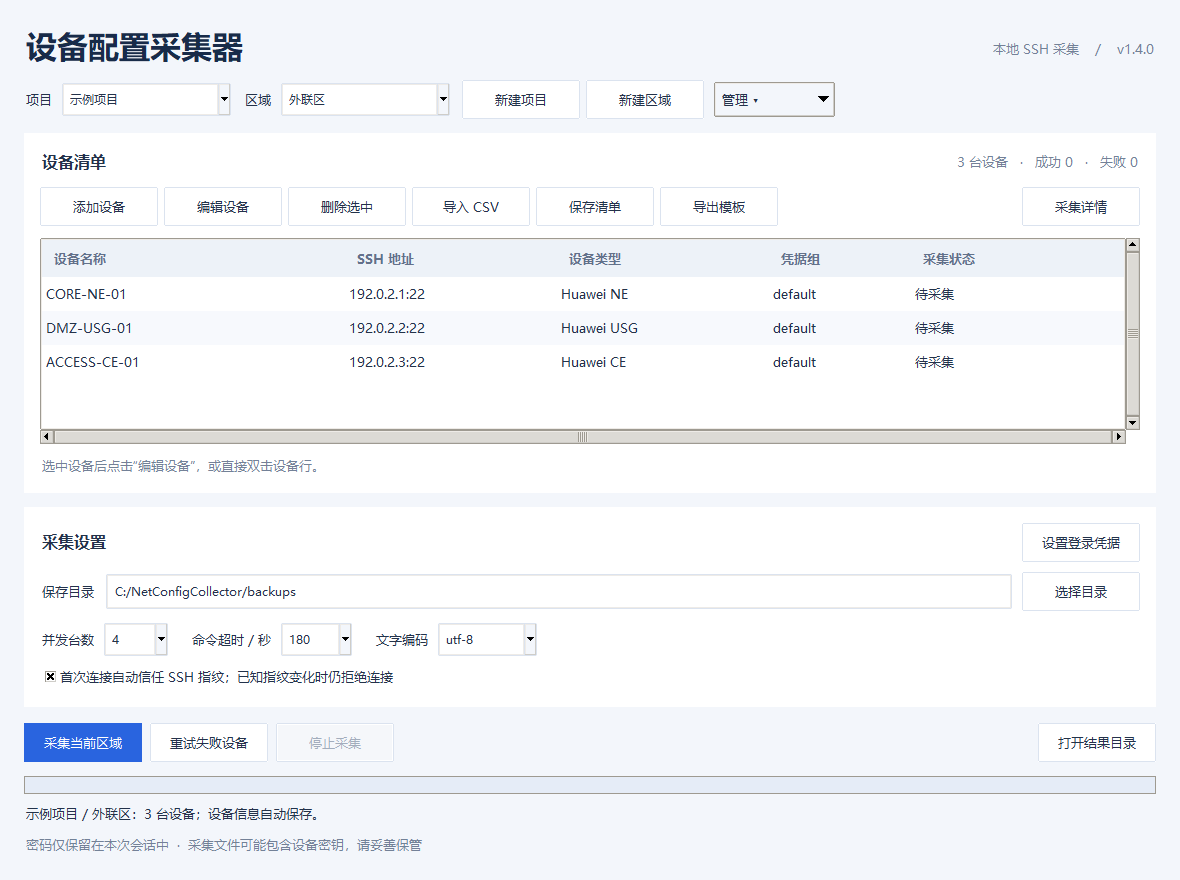
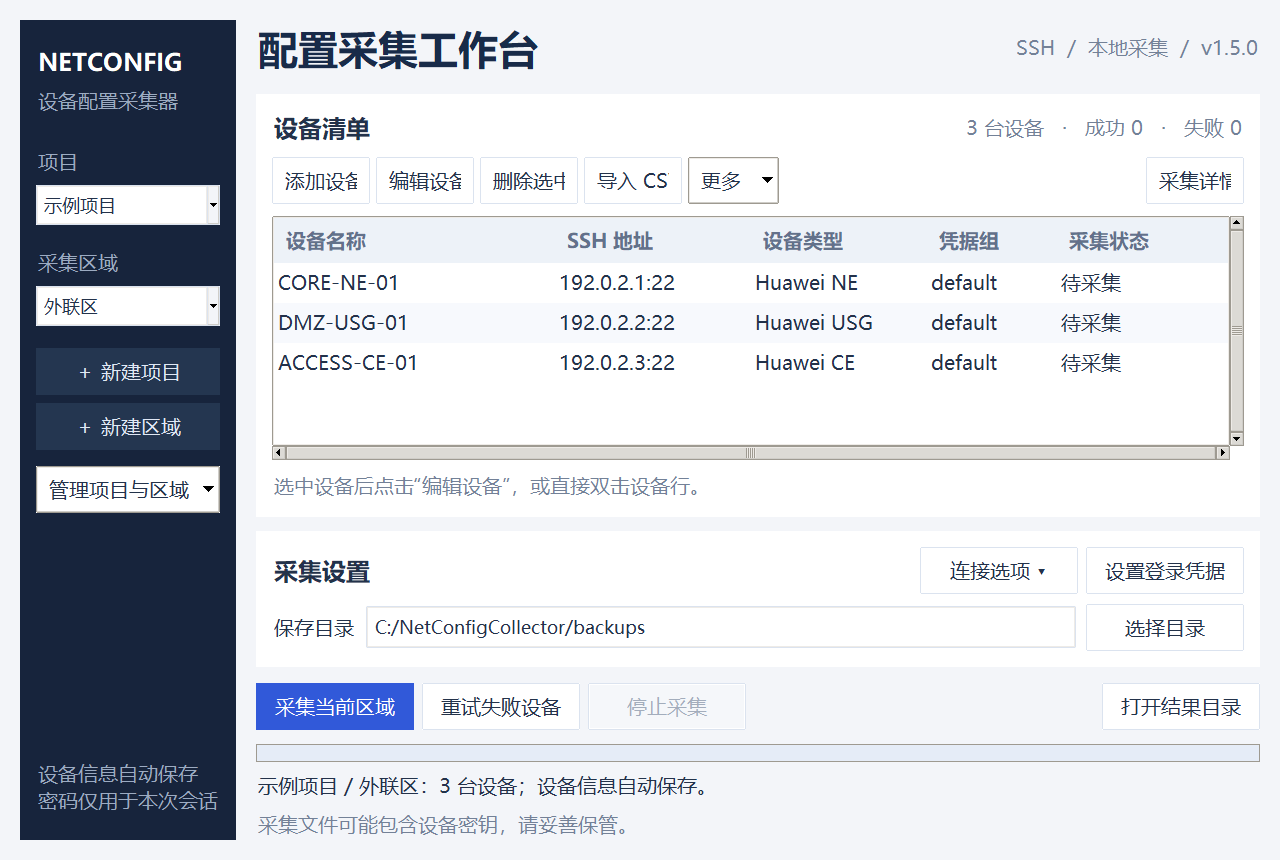
Redesign collector workspace with project sidebar and compact settings

diff --git a/source/app.py b/source/app.py
@@ -24,27 +24,27 @@ class App:
         self.library = Inventory(library_path if library_path is not None else STATE / 'inventory.json')
         self.project_credentials = {}
         self.active_project = None
-        root.title("设备配置采集器 1.4.0")
-        root.geometry("1180x880")
+        root.title("设备配置采集器 1.5.0")
+        root.geometry("1280x860")
         root.minsize(1020, 760)
-        root.configure(background="#f3f6fb")
+        root.configure(background="#f3f5f9")
         style = ttk.Style()
         style.theme_use("clam")
-        style.configure(".", font=("Microsoft YaHei UI", 10), background="#f3f6fb", foreground="#23324a")
-        style.configure("TFrame", background="#f3f6fb")
+        style.configure(".", font=("Microsoft YaHei UI", 10), background="#f3f5f9", foreground="#23324a")
+        style.configure("TFrame", background="#f3f5f9")
         style.configure("Card.TFrame", background="#ffffff")
-        style.configure("TLabel", background="#f3f6fb")
+        style.configure("TLabel", background="#f3f5f9")
         style.configure("Card.TLabel", background="#ffffff")
         style.configure("Muted.TLabel", foreground="#738197")
         style.configure("CardMuted.TLabel", background="#ffffff", foreground="#738197")
-        style.configure("Title.TLabel", font=("Microsoft YaHei UI", 23, "bold"), foreground="#182b49")
+        style.configure("Title.TLabel", font=("Microsoft YaHei UI", 20, "bold"), foreground="#182b49")
         style.configure("Section.TLabel", background="#ffffff", font=("Microsoft YaHei UI", 12, "bold"))
         style.configure("TButton", background="#ffffff", bordercolor="#dbe3ef", lightcolor="#ffffff",
-                        darkcolor="#ffffff", borderwidth=1, padding=(12, 7))
+                        darkcolor="#ffffff", borderwidth=1, padding=(10, 7))
         style.map("TButton", background=[("active", "#eef4ff"), ("disabled", "#f5f7fa")],
                   foreground=[("disabled", "#a3adbc")])
-        style.configure("Primary.TButton", background="#2964df", foreground="#ffffff",
-                        bordercolor="#2964df", lightcolor="#2964df", darkcolor="#2964df")
+        style.configure("Primary.TButton", background="#3159d9", foreground="#ffffff",
+                        bordercolor="#3159d9", lightcolor="#3159d9", darkcolor="#3159d9")
         style.map("Primary.TButton", background=[("disabled", "#b7c9ed"), ("active", "#1e50bd")],
                   foreground=[("disabled", "#edf2fc"), ("!disabled", "#ffffff")])
         style.configure("TEntry", fieldbackground="#ffffff", bordercolor="#dbe3ef", padding=7)
@@ -54,13 +54,13 @@ class App:
                   selectbackground=[("readonly", "#ffffff")], selectforeground=[("readonly", "#23324a")])
         style.configure("TCheckbutton", background="#ffffff", padding=4)
         style.map("TCheckbutton", background=[("active", "#ffffff")])
-        style.configure("Treeview", background="#ffffff", fieldbackground="#ffffff", rowheight=34,
+        style.configure("Treeview", background="#ffffff", fieldbackground="#ffffff", rowheight=40,
                         borderwidth=0, font=("Microsoft YaHei UI", 10))
         style.configure("Treeview.Heading", background="#edf2f8", foreground="#63718a",
                         font=("Microsoft YaHei UI", 10, "bold"), padding=(10, 7), relief="flat")
         style.map("Treeview", background=[("selected", "#dce9ff")], foreground=[("selected", "#173d80")])
-        style.configure("Horizontal.TProgressbar", background="#2964df", troughcolor="#e5ecf7",
-                        borderwidth=0, lightcolor="#2964df", darkcolor="#2964df")
+        style.configure("Horizontal.TProgressbar", background="#3159d9", troughcolor="#e5ecf7",
+                        borderwidth=0, lightcolor="#3159d9", darkcolor="#3159d9")
         self.devices = []
         self.credentials = {}
         self.events = queue.Queue()
@@ -77,40 +77,54 @@ class App:
         self.status = tk.StringVar(value="添加或导入设备，设置登录凭据后即可开始。")
         self.counts = tk.StringVar(value="0 台设备   ·   成功 0   ·   失败 0")
         self.selection_text = tk.StringVar(value="选中设备后点击“编辑设备”，或直接双击设备行。")
-        main = ttk.Frame(root, padding=24)
+        style.configure("Nav.TFrame", background="#17243c")
+        style.configure("Nav.TLabel", background="#17243c", foreground="#ffffff",
+                        font=("Microsoft YaHei UI", 12, "bold"))
+        style.configure("NavMuted.TLabel", background="#17243c", foreground="#9cabc2")
+        style.configure("Nav.TButton", background="#243650", foreground="#e0e8f5",
+                        bordercolor="#243650", lightcolor="#243650", darkcolor="#243650")
+        style.map("Nav.TButton", background=[("active", "#334b70"), ("disabled", "#243650")],
+                  foreground=[("disabled", "#738197")])
+        style.configure("TMenubutton", padding=(10, 7), background="#ffffff", borderwidth=1)
+        main = ttk.Frame(root, padding=20)
         main.pack(fill="both", expand=True)
-        main.columnconfigure(0, weight=1)
-        main.rowconfigure(2, weight=1)
+        main.columnconfigure(1, weight=1)
+        main.rowconfigure(1, weight=1)
         header = ttk.Frame(main)
-        header.grid(row=0, column=0, sticky="ew", pady=(0, 12))
-        ttk.Label(header, text="设备配置采集器", style="Title.TLabel").pack(side="left")
-        ttk.Label(header, text="本地 SSH 采集    /    v1.4.0", style="Muted.TLabel").pack(side="right", anchor="s", pady=8)
-        scope = ttk.Frame(main)
-        scope.grid(row=1, column=0, sticky="ew", pady=(0, 14))
+        header.grid(row=0, column=1, sticky="ew", padx=(20, 0), pady=(0, 18))
+        ttk.Label(header, text="配置采集工作台", style="Title.TLabel").pack(side="left")
+        ttk.Label(header, text="SSH  /  本地采集  /  v1.5.0", style="Muted.TLabel").pack(side="right")
+        scope = ttk.Frame(main, style="Nav.TFrame", padding=(16, 24))
+        scope.grid(row=0, column=0, rowspan=8, sticky="ns")
+        ttk.Label(scope, text="NETCONFIG", style="Nav.TLabel").pack(anchor="w")
+        ttk.Label(scope, text="设备配置采集器", style="NavMuted.TLabel").pack(anchor="w", pady=(6, 30))
         self.project = tk.StringVar()
         self.area = tk.StringVar()
-        for text, variable, attribute in (("项目", self.project, "project_box"), ("区域", self.area, "area_box")):
-            ttk.Label(scope, text=text).pack(side="left", padx=(0, 8))
-            box = ttk.Combobox(scope, textvariable=variable, width=20, state="readonly")
-            box.pack(side="left", padx=(0, 12))
+        for text, variable, attribute in (("项目", self.project, "project_box"), ("采集区域", self.area, "area_box")):
+            ttk.Label(scope, text=text, style="NavMuted.TLabel").pack(anchor="w", pady=(0, 8))
+            box = ttk.Combobox(scope, textvariable=variable, width=14, state="readonly")
+            box.pack(fill="x", pady=(0, 22))
             box.bind("<<ComboboxSelected>>", self.switch_area)
             setattr(self, attribute, box)
             self.controls.append(box)
-        for text, kind in (("新建项目", "project"), ("新建区域", "area")):
-            button = ttk.Button(scope, text=text, command=lambda kind=kind: self.manage_inventory("create", kind))
-            button.pack(side="left", padx=(0, 6))
+        for text, kind in (("＋ 新建项目", "project"), ("＋ 新建区域", "area")):
+            button = ttk.Button(scope, text=text, style="Nav.TButton",
+                                command=lambda kind=kind: self.manage_inventory("create", kind))
+            button.pack(fill="x", pady=(0, 8))
             self.controls.append(button)
-        manage = ttk.Menubutton(scope, text="管理 ▾")
+        manage = ttk.Menubutton(scope, text="管理项目与区域")
         menu = tk.Menu(manage, tearoff=False)
         for label, action, kind in (("重命名项目", "rename", "project"), ("重命名区域", "rename", "area"),
                                     ("删除项目", "delete", "project"), ("删除区域", "delete", "area")):
             menu.add_command(label=label, command=lambda action=action, kind=kind: self.manage_inventory(action, kind))
         manage.configure(menu=menu)
-        manage.pack(side="left", padx=(4, 0))
+        manage.pack(fill="x", pady=(8, 0))
         self.controls.append(manage)
+        ttk.Label(scope, text="设备信息自动保存\n密码仅用于本次会话", style="NavMuted.TLabel",
+                  justify="left").pack(side="bottom", anchor="w", pady=(24, 0))
 
         inventory = ttk.Frame(main, style="Card.TFrame", padding=16)
-        inventory.grid(row=2, column=0, sticky="nsew")
+        inventory.grid(row=1, column=1, sticky="nsew", padx=(20, 0))
         inventory.columnconfigure(0, weight=1)
         inventory.rowconfigure(2, weight=1)
         heading = ttk.Frame(inventory, style="Card.TFrame")
@@ -122,25 +136,32 @@ class App:
         for label, command in [
             ("添加设备", self.add_device), ("编辑设备", self.edit_selected),
             ("删除选中", self.remove), ("导入 CSV", self.import_csv),
-            ("保存清单", self.export_inventory), ("导出模板", self.template),
+            
         ]:
-            button = ttk.Button(bar, text=label, command=command)
+            button = ttk.Button(bar, text=label, width=6, command=command)
             button.pack(side="left", padx=(0, 6))
             self.controls.append(button)
-        ttk.Button(bar, text="采集详情", command=self.show_detail).pack(side="right")
+        more = ttk.Menubutton(bar, text="更多", width=4)
+        exports = tk.Menu(more, tearoff=False)
+        exports.add_command(label="导出当前清单 CSV", command=self.export_inventory)
+        exports.add_command(label="导出设备模板", command=self.template)
+        more.configure(menu=exports)
+        more.pack(side="left")
+        self.controls.append(more)
+        ttk.Button(bar, text="采集详情", width=6, command=self.show_detail).pack(side="right")
         table = ttk.Frame(inventory, style="Card.TFrame")
         table.grid(row=2, column=0, sticky="nsew")
         columns = ("name", "host", "platform", "credential", "status")
         self.tree = ttk.Treeview(table, columns=columns, show="headings", selectmode="extended", height=6)
         for col, title, width in zip(columns, ("设备名称", "SSH 地址", "设备类型", "凭据组", "采集状态"),
-                                     (270, 180, 180, 110, 180)):
+                                     (240, 155, 135, 90, 130)):
             self.tree.heading(col, text=title, anchor="w")
             self.tree.column(col, width=width, minwidth=90, anchor="w")
         self.tree.tag_configure("even", background="#ffffff")
         self.tree.tag_configure("odd", background="#f7f9fd")
         self.tree.tag_configure("success", foreground="#15805a")
         self.tree.tag_configure("failed", foreground="#c34545")
-        self.tree.tag_configure("working", foreground="#2964df")
+        self.tree.tag_configure("working", foreground="#3159d9")
         scrollbar = ttk.Scrollbar(table, orient="vertical", command=self.tree.yview)
         horizontal = ttk.Scrollbar(table, orient="horizontal", command=self.tree.xview)
         self.tree.configure(yscrollcommand=scrollbar.set, xscrollcommand=horizontal.set)
@@ -152,10 +173,10 @@ class App:
         self.tree.bind("<Double-1>", self.double_click)
         self.tree.bind("<<TreeviewSelect>>", self.selected_changed)
         ttk.Label(inventory, textvariable=self.selection_text, style="CardMuted.TLabel",
-                  wraplength=900).grid(row=3, column=0, sticky="w", pady=(10, 0))
+                  wraplength=680).grid(row=3, column=0, sticky="w", pady=(10, 0))
 
         settings = ttk.Frame(main, style="Card.TFrame", padding=16)
-        settings.grid(row=3, column=0, sticky="ew", pady=(14, 0))
+        settings.grid(row=2, column=1, sticky="ew", padx=(20, 0), pady=(14, 0))
         row = ttk.Frame(settings, style="Card.TFrame")
         row.pack(fill="x", pady=(0, 10))
         ttk.Label(row, text="采集设置", style="Section.TLabel").pack(side="left")
@@ -171,7 +192,17 @@ class App:
         browse = ttk.Button(destination, text="选择目录", command=self.browse)
         browse.pack(side="right")
         self.controls.append(browse)
-        options = ttk.Frame(settings, style="Card.TFrame")
+        advanced = ttk.Frame(settings, style="Card.TFrame")
+        def toggle_options():
+            if advanced.winfo_manager():
+                advanced.pack_forget()
+                toggle.configure(text="连接选项 ▾")
+            else:
+                advanced.pack(fill="x")
+                toggle.configure(text="收起选项 ▴")
+        toggle = ttk.Button(row, text="连接选项 ▾", command=toggle_options)
+        toggle.pack(side="right", padx=(0, 8))
+        options = ttk.Frame(advanced, style="Card.TFrame")
         options.pack(fill="x", pady=(12, 6))
         for text, variable, values, width in [
             ("并发台数", self.workers, ("1", "2", "4", "8"), 5),
@@ -180,14 +211,14 @@ class App:
         ]:
             ttk.Label(options, text=text, style="Card.TLabel").pack(side="left", padx=(0, 8))
             box = ttk.Combobox(options, textvariable=variable, values=values, width=width, state="readonly")
-            box.pack(side="left", padx=(0, 22))
+            box.pack(side="left", padx=(0, 12))
             self.controls.append(box)
-        trust = ttk.Checkbutton(settings, text="首次连接自动信任 SSH 指纹；已知指纹变化时仍拒绝连接",
+        trust = ttk.Checkbutton(advanced, text="首次连接自动信任 SSH 指纹；已知指纹变化时仍拒绝连接",
                                 variable=self.auto_trust)
         trust.pack(anchor="w")
         self.controls.append(trust)
         actions = ttk.Frame(main)
-        actions.grid(row=4, column=0, sticky="ew", pady=(16, 0))
+        actions.grid(row=3, column=1, sticky="ew", padx=(20, 0), pady=(16, 0))
         self.start_button = ttk.Button(actions, text="采集当前区域", style="Primary.TButton", command=self.start)
         self.start_button.pack(side="left")
         self.controls.append(self.start_button)
@@ -198,10 +229,10 @@ class App:
         self.stop_button.pack(side="left", padx=8)
         ttk.Button(actions, text="打开结果目录", command=self.open_results).pack(side="right")
         self.progress = ttk.Progressbar(main, mode="determinate")
-        self.progress.grid(row=5, column=0, sticky="ew", pady=(14, 8))
-        ttk.Label(main, textvariable=self.status, wraplength=960).grid(row=6, column=0, sticky="w")
-        ttk.Label(main, text="密码仅保留在本次会话中  ·  采集文件可能包含设备密钥，请妥善保管",
-                  style="Muted.TLabel").grid(row=7, column=0, sticky="w", pady=(8, 0))
+        self.progress.grid(row=4, column=1, sticky="ew", padx=(20, 0), pady=(14, 8))
+        ttk.Label(main, textvariable=self.status, wraplength=720).grid(row=5, column=1, sticky="w", padx=(20, 0))
+        ttk.Label(main, text="采集文件可能包含设备密钥，请妥善保管。",
+                  style="Muted.TLabel").grid(row=6, column=1, sticky="w", padx=(20, 0), pady=(8, 0))
         self.load_area()
         root.protocol("WM_DELETE_WINDOW", self.close)
         root.after(100, self.poll)

diff --git a/source/test_app.py b/source/test_app.py
@@ -147,6 +147,10 @@ class EditorTests(unittest.TestCase):
     def test_minimum_window_controls_visible(self):
         self.root.geometry("1020x760")
         self.root.update()
+        toggle = next(w for w in descendants(self.root)
+                      if isinstance(w, ttk.Button) and w["text"] == "连接选项 ▾")
+        toggle.invoke()
+        self.root.update()
         for widget in self.app.controls + [self.app.stop_button, self.app.progress]:
             self.assertTrue(widget.winfo_ismapped())
             self.assertLessEqual(widget.winfo_rooty() + widget.winfo_height(),

diff --git a/docs/使用说明.md b/docs/使用说明.md
@@ -1,4 +1,4 @@
-# 设备配置采集器 1.4.0
+# 设备配置采集器 1.5.0
 
 ## 开始使用
 
@@ -166,3 +166,10 @@ source/ 内含完整源码和测试。构建说明见 source/BUILD.md。
 检测到另一个窗口修改了设备库时，会拒绝覆盖并提示重新打开。
 删除项目 / 区域需确认，且至少保留一个项目、每个项目至少一个区域；已有采集文件不会被删除。
 首次安装不会自动读取旧版 CSV，需要按区域导入一次。
+
+## v1.5.0 界面更新
+
+左侧切换和管理项目 / 区域，右侧显示设备及采集操作。
+导出清单和模板位于设备工具栏的“更多”菜单。
+并发数、超时、编码和首次信任指纹选项位于“连接选项”，点击即可展开。
+原有设备库位置和采集逻辑保持兼容。
